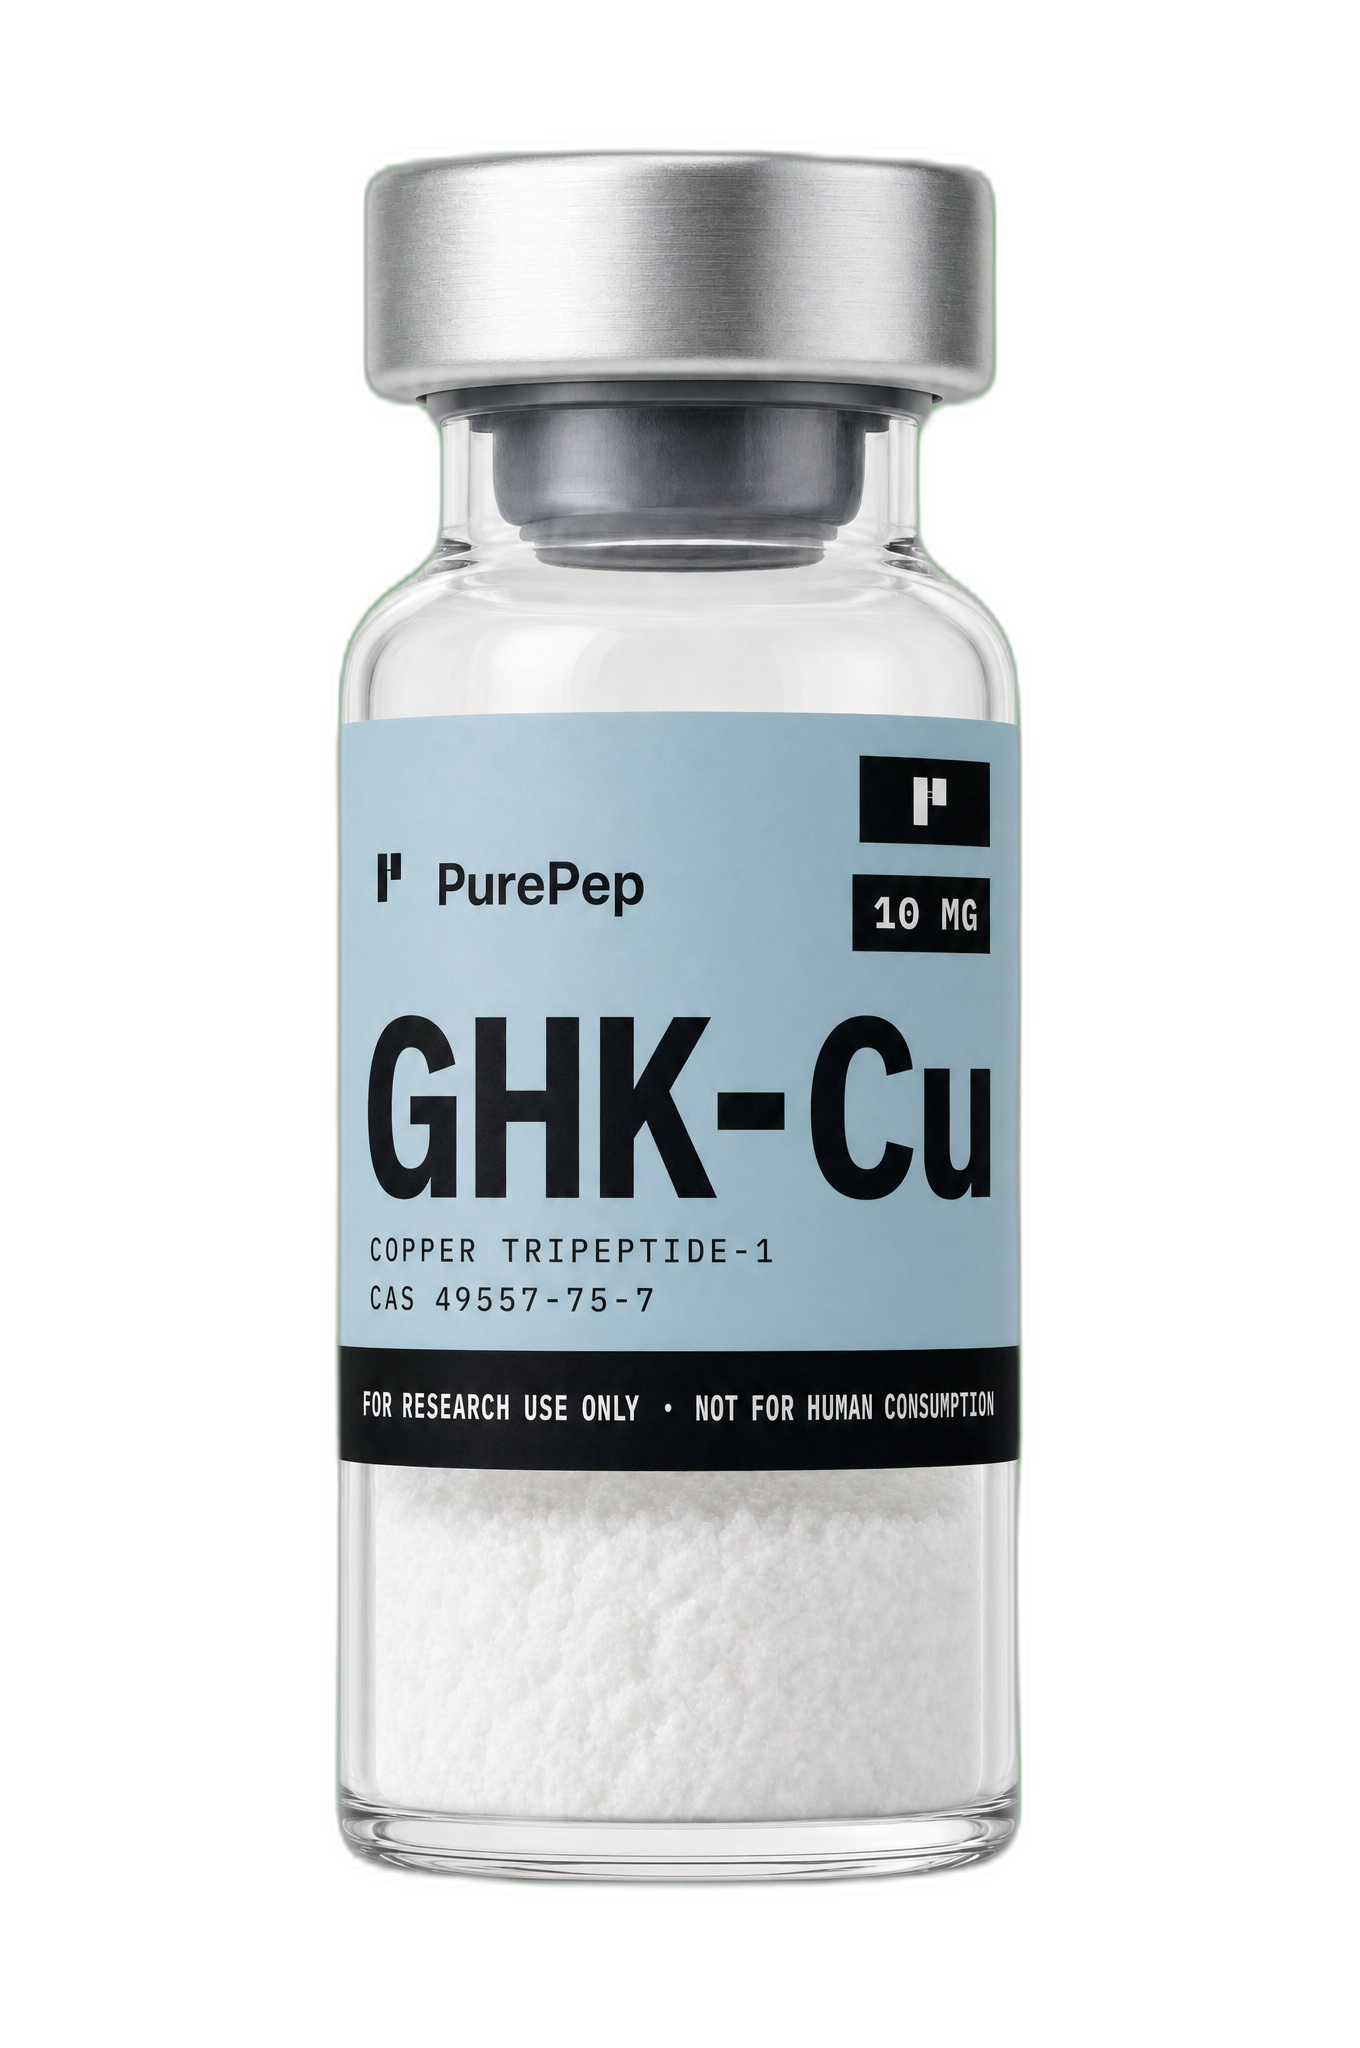
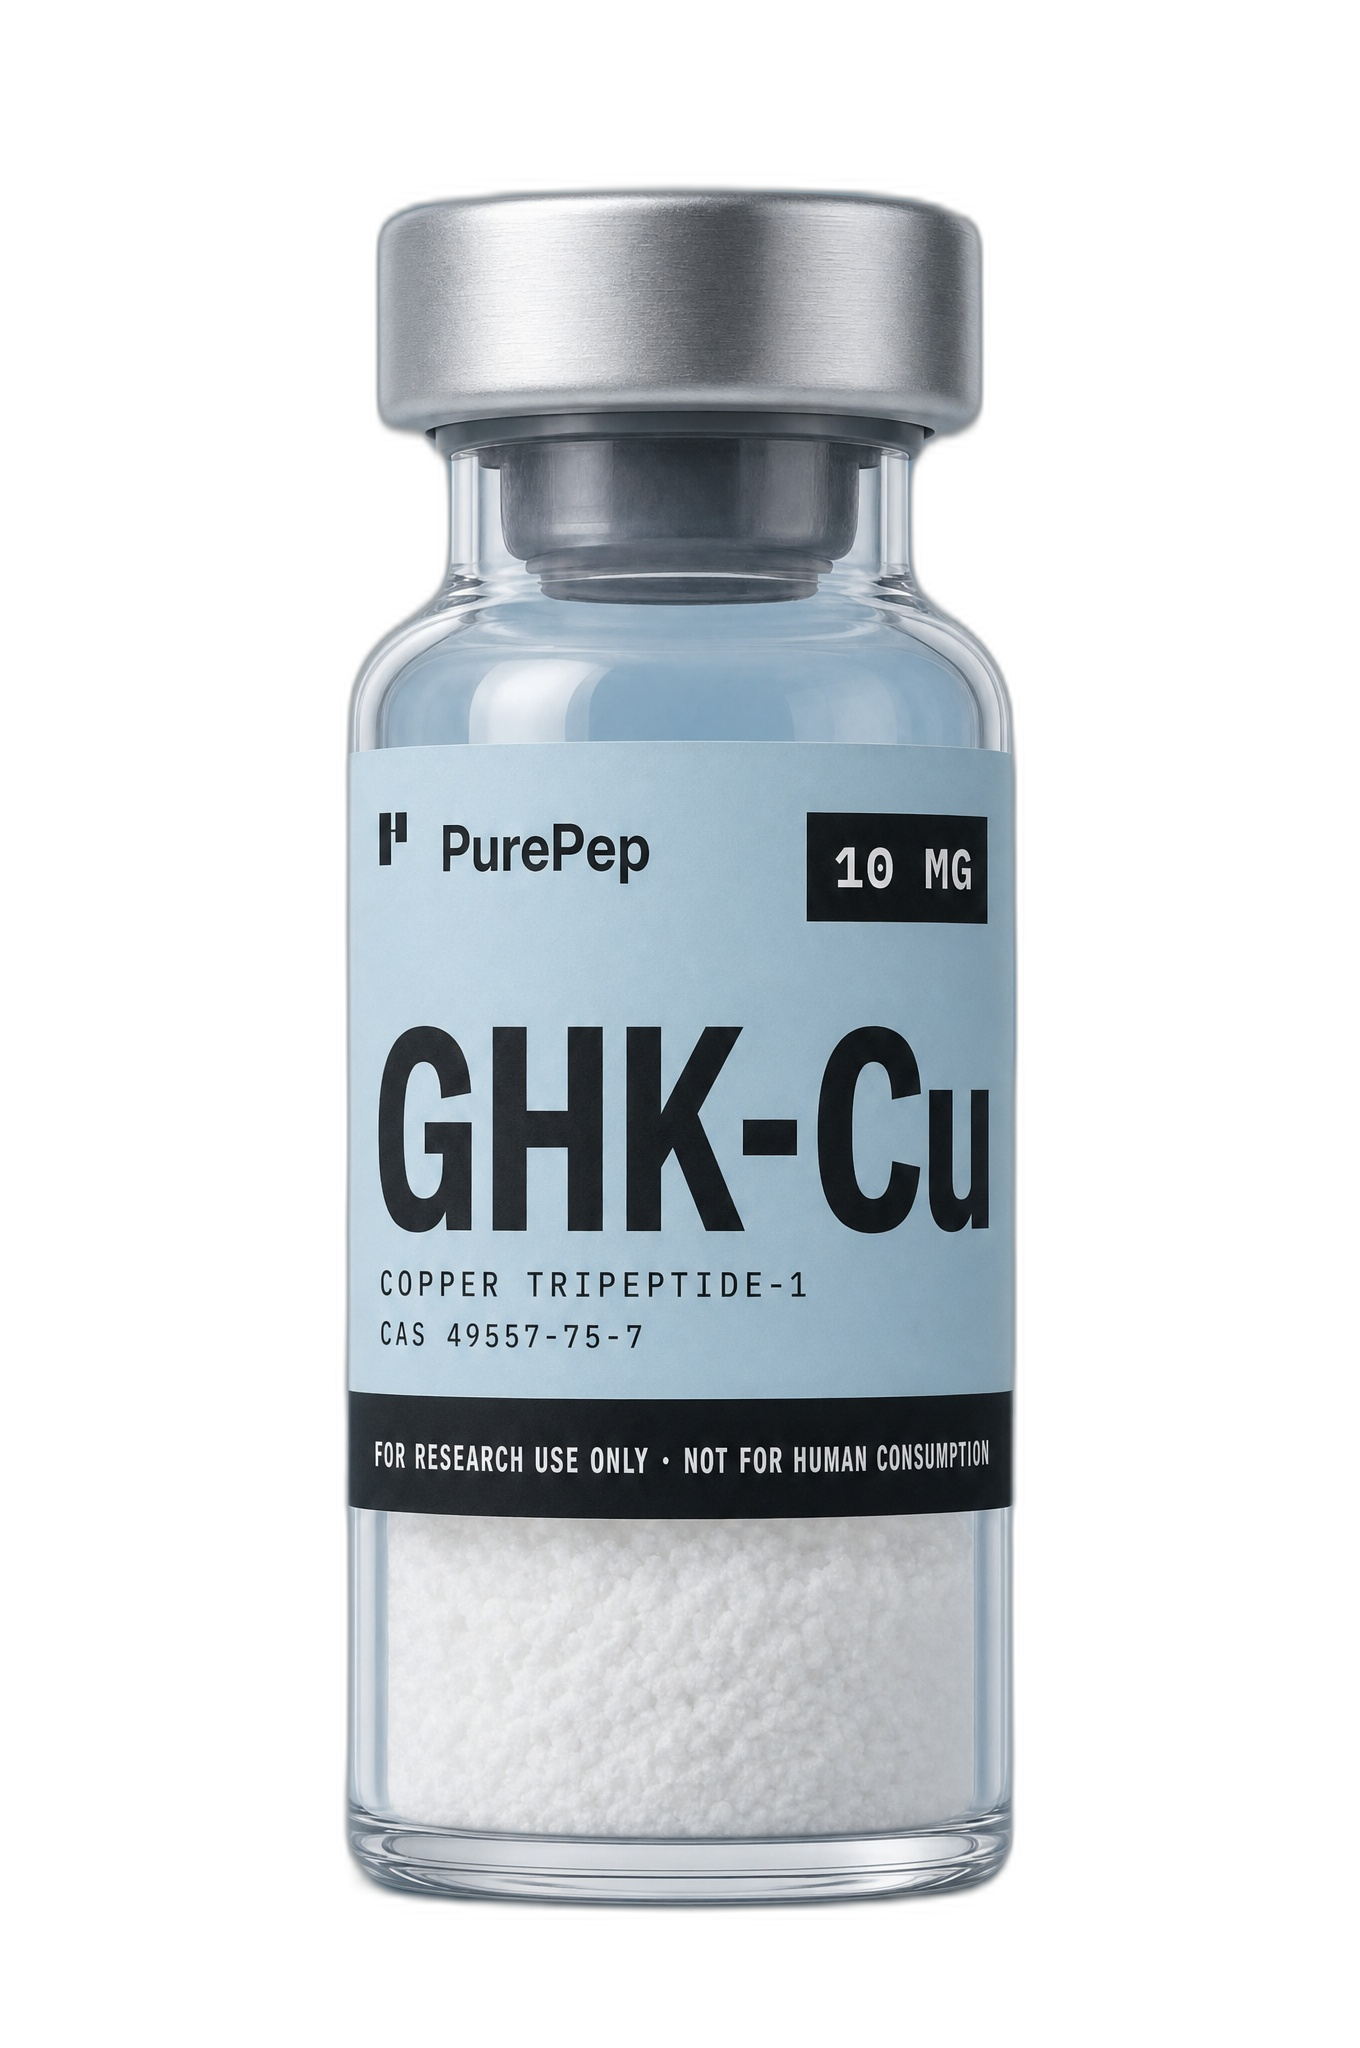
feat: cutout + CSS-backdrop imagery architecture
- Re-run rembg on 4 remaining chroma-key cutouts (sema, tirz, ghk-cu, mots-c)
- Add per-SKU backdrop token map to globals.css via data-vial-slug attribute
  selectors; no inline hex in any component
- Switch all vial <Image> src from -v1.0.jpg to -v1.0-cutout.png across
  CatalogPage, PDPHero, MobilePDP, MobileShopPage
- Add data-vial-slug={slug} to every image container so CSS gradient resolves
- Update container backgrounds to linear-gradient(var(--vial-upper), var(--vial-shelf))
- Fix v3pdp-hero-img: object-fit cover → contain with 8% padding
- Export favicon/PWA icons (512/192/32) from RETA cutout

Changed region(s): [[0.2471, 0.0625, 0.7721, 0.9375]]

diff --git a/src/app/globals.css b/src/app/globals.css
@@ -573,7 +573,7 @@ button { font-family: inherit; }
 
 /* Photo card — vial visual on the cream gradient surface. */
 .v3pdp-photo-card {
-  background-image: linear-gradient(168deg, #F1EDE3 0%, #E8E1D0 60%, #DDD3BC 100%);
+  background: linear-gradient(to bottom, var(--vial-upper, #F1EDE3), var(--vial-shelf, #DDD3BC));
   border-radius: 28px;
   padding: 56px 48px;
   box-shadow: var(--v3-shadow-hero);
@@ -1567,7 +1567,7 @@ a.v3-pill-ghost:hover {
 .v3-tile-photo {
   position: relative;
   aspect-ratio: 4 / 3;
-  background: var(--v3-surface-2);
+  background: linear-gradient(to bottom, var(--vial-upper, var(--v3-surface-2)), var(--vial-shelf, var(--v3-surface-2)));
   display: flex; align-items: center; justify-content: center;
   overflow: hidden;
   border-bottom: 1.5px solid var(--v3-ink);
@@ -2869,7 +2869,7 @@ a.v3-pill-ghost:hover {
 .v3cat-featured-photo {
   position: relative;
   aspect-ratio: 4 / 3;
-  background: var(--v3-surface-2);
+  background: linear-gradient(to bottom, var(--vial-upper, var(--v3-surface-2)), var(--vial-shelf, var(--v3-surface-2)));
   display: flex; align-items: center; justify-content: center;
   overflow: hidden;
   border-right: 1.5px solid var(--v3-ink);
@@ -6663,7 +6663,7 @@ a.v3-pill-ghost:hover {
 
 .mob-pcard-img {
   position: relative; aspect-ratio: 1/1;
-  background: linear-gradient(160deg, var(--m-s1) 0%, var(--m-s3) 100%);
+  background: linear-gradient(to bottom, var(--vial-upper, var(--m-s1)), var(--vial-shelf, var(--m-s3)));
   display: flex; align-items: flex-end; justify-content: center;
   overflow: hidden;
 }
@@ -7390,7 +7390,7 @@ a.v3-pill-ghost:hover {
 .mob-pdp-img {
   margin: 0 20px;
   border-radius: var(--m-r2);
-  background: linear-gradient(160deg, var(--m-s1) 0%, var(--m-s3) 50%, var(--m-s2) 100%);
+  background: linear-gradient(to bottom, var(--vial-upper, var(--m-s1)), var(--vial-shelf, var(--m-s3)));
   border: 1px solid var(--m-rule);
   aspect-ratio: 1/1;
   display: flex; align-items: flex-end; justify-content: center;
@@ -10333,8 +10333,9 @@ html.mob-age-gate .mob-hdr .mob-hdr-r { display: none; }
   inset: 0;
   width: 100%;
   height: 100%;
-  object-fit: cover;
+  object-fit: contain;
   object-position: center;
+  padding: 8%;
   z-index: 1;
 }
 
@@ -10876,5 +10877,25 @@ html.mob-age-gate .mob-hdr .mob-hdr-r { display: none; }
   color: var(--pp-emerald) !important;
   font-weight: 700;
 }
+
+/* ── SKU backdrop tokens ──────────────────────────────────────────────────────
+   Set data-vial-slug="<slug>" on any container to get --vial-upper /
+   --vial-shelf resolved. Components never reference hex directly.
+   Values are the canonical backdropUpper / backdropShelf from skus.ts.
+   --------------------------------------------------------------------------- */
+[data-vial-slug="reta"]         { --vial-upper: #f3ead9; --vial-shelf: #d4c5a7; }
+[data-vial-slug="sema"]         { --vial-upper: #f5dfca; --vial-shelf: #d8a586; }
+[data-vial-slug="tirz"]         { --vial-upper: #e0d8ec; --vial-shelf: #a89dc6; }
+[data-vial-slug="cagri"]        { --vial-upper: #d8e2d0; --vial-shelf: #9eb393; }
+[data-vial-slug="bpc-157"]      { --vial-upper: #dcc8d0; --vial-shelf: #9c7e8a; }
+[data-vial-slug="tb-500"]       { --vial-upper: #e8cecb; --vial-shelf: #b48b87; }
+[data-vial-slug="ghk-cu"]       { --vial-upper: #cfdce6; --vial-shelf: #a9c0d3; }
+[data-vial-slug="mots-c"]       { --vial-upper: #d2e0dc; --vial-shelf: #8eada6; }
+[data-vial-slug="survo"]        { --vial-upper: #F0DEC8; --vial-shelf: #D9BC96; }
+[data-vial-slug="ipamorelin"]   { --vial-upper: #DDD0E8; --vial-shelf: #C4B0D6; }
+[data-vial-slug="bac-water"]    { --vial-upper: #ddd2bd; --vial-shelf: #c7b89e; }
+[data-vial-slug="glp-stack"]    { --vial-upper: #F0E8D5; --vial-shelf: #D8C8A8; }
+[data-vial-slug="healing-stack"]  { --vial-upper: #E8D0CC; --vial-shelf: #C8A8A4; }
+[data-vial-slug="recovery-stack"] { --vial-upper: #D8C8DC; --vial-shelf: #B8A0C0; }
 
 

diff --git a/src/components/v5/MobilePDP.tsx b/src/components/v5/MobilePDP.tsx
@@ -113,9 +113,9 @@ export function MobilePDP({ product, related }: { product: Product; related: Pro
       </nav>
 
       {/* Product image */}
-      <div className="mob-pdp-img">
+      <div className="mob-pdp-img" data-vial-slug={product.slug}>
         <Image
-          src={product.imageUrl ?? `/images/products/source/purepep-vial-${product.slug}-v1.0.jpg`}
+          src={`/images/products/source/purepep-vial-${product.slug}-v1.0-cutout.png`}
           alt={`${product.compound} vial`}
           fill
           priority
@@ -369,9 +369,9 @@ export function MobilePDP({ product, related }: { product: Product; related: Pro
         <div className="mob-paired-band">
           <h2 className="mob-paired-h2">Often paired with</h2>
           <a href={`/shop/${related[0].slug}`} className="mob-paired-card">
-            <div className="mob-paired-thumb">
+            <div className="mob-paired-thumb" data-vial-slug={related[0].slug}>
               <Image
-                src={related[0].imageUrl ?? `/images/products/source/purepep-vial-${related[0].slug}-v1.0.jpg`}
+                src={`/images/products/source/purepep-vial-${related[0].slug}-v1.0-cutout.png`}
                 alt={`${related[0].compound} vial`}
                 fill
                 sizes="60px"
@@ -402,14 +402,14 @@ export function MobilePDP({ product, related }: { product: Product; related: Pro
             <div className="mob-more-carousel" ref={carouselRef}>
               {related.map((p) => (
                 <a key={p.slug} href={`/shop/${p.slug}`} className="mob-more-card">
-                  <div className="mob-more-img">
+                  <div className="mob-more-img" data-vial-slug={p.slug}>
                     <span className="mob-more-cat-pill">{categoryShort(p.category)}</span>
                     <span className={`mob-more-stock ${p.stock === "low" ? "is-low" : "is-in"}`}>
                       <span className="sd" />
                       {p.stock === "low" ? "Low stock" : "In stock"}
                     </span>
                     <Image
-                      src={p.imageUrl ?? `/images/products/source/purepep-vial-${p.slug}-v1.0.jpg`}
+                      src={`/images/products/source/purepep-vial-${p.slug}-v1.0-cutout.png`}
                       alt={`${p.compound} vial`}
                       fill
                       sizes="40vw"

diff --git a/src/components/v3/CatalogPage.tsx b/src/components/v3/CatalogPage.tsx
@@ -275,9 +275,10 @@ function FeaturedSlide({ product }: { product: Product }) {
         href={`/shop/${product.slug}`}
         className="v3cat-featured-photo"
         aria-label={`Open ${product.name} product page`}
+        data-vial-slug={product.slug}
       >
         <Image
-          src={product.imageUrl ?? `/images/products/source/purepep-vial-${product.slug}-v1.0.jpg`}
+          src={`/images/products/source/purepep-vial-${product.slug}-v1.0-cutout.png`}
           alt={`${product.compound} vial`}
           fill
           sizes="(max-width:900px) 100vw, 40vw"
@@ -359,14 +360,14 @@ function ProductTile({ product }: { product: Product }) {
 
   return (
     <Link href={`/shop/${product.slug}`} className="v3-tile">
-      <div className="v3-tile-photo">
+      <div className="v3-tile-photo" data-vial-slug={product.slug}>
         {product.type === "stack" ? (
           <span className="v3-tile-stack-badge">{STACK_BADGE_LABEL}</span>
         ) : product.regularPrice && product.regularPrice > product.price ? (
           <span className="v3-tile-sale-badge">Sale</span>
         ) : null}
         <Image
-          src={product.imageUrl ?? `/images/products/source/purepep-vial-${product.slug}-v1.0.jpg`}
+          src={`/images/products/source/purepep-vial-${product.slug}-v1.0-cutout.png`}
           alt={`${product.compound} vial`}
           fill
           sizes="(max-width:600px) 50vw, 25vw"

diff --git a/src/components/v5/MobileShopPage.tsx b/src/components/v5/MobileShopPage.tsx
@@ -136,7 +136,7 @@ export function MobileShopPage({ products }: { products: Product[] }) {
       <div className="mob-pgrid">
         {visible.map((p) => (
           <a key={p.slug} href={`/shop/${p.slug}`} className="mob-pcard">
-            <div className="mob-pcard-img">
+            <div className="mob-pcard-img" data-vial-slug={p.slug}>
               {p.type === "stack" ? (
                 <span className="mob-card-stack-ribbon">{STACK_BADGE_LABEL}</span>
               ) : p.regularPrice && p.regularPrice > p.price ? (
@@ -152,7 +152,7 @@ export function MobileShopPage({ products }: { products: Product[] }) {
                 {stockLabel(p.stock)}
               </span>
               <Image
-                src={p.imageUrl ?? `/images/products/source/purepep-vial-${p.slug}-v1.0.jpg`}
+                src={`/images/products/source/purepep-vial-${p.slug}-v1.0-cutout.png`}
                 alt={`${p.compound} vial`}
                 fill
                 sizes="50vw"

diff --git a/src/components/v3/PDPHero.tsx b/src/components/v3/PDPHero.tsx
@@ -225,9 +225,9 @@ export function PDPHero({ product }: { product: Product }) {
         {/* HERO */}
         <section className="v3pdp-hero">
           <div className="v3pdp-hero-grid">
-            <div className="v3pdp-photo-card">
+            <div className="v3pdp-photo-card" data-vial-slug={product.slug}>
               <Image
-                src={product.imageUrl ?? `/images/products/source/purepep-vial-${product.slug}-v1.0.jpg`}
+                src={`/images/products/source/purepep-vial-${product.slug}-v1.0-cutout.png`}
                 alt={`${product.compound} vial`}
                 fill
                 priority
